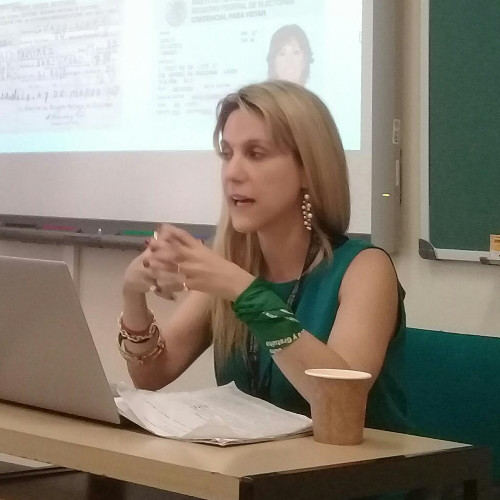
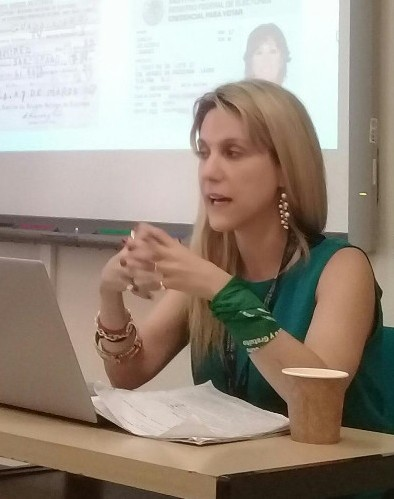
aborto legal

diff --git a/articulos/aborto_legal_seguro_y_gratuito_ed_6_2026.html b/articulos/aborto_legal_seguro_y_gratuito_ed_6_2026.html
@@ -1,0 +1,149 @@
+<!DOCTYPE html>
+<html lang="es">
+<head>
+  <meta charset="UTF-8">
+  <meta name="viewport" content="width=device-width, initial-scale=1.0">
+  <title>Gaceta Clara Zetkin | Aborto legal, seguro y gratuito: más de 30 años de lucha</title>
+  <link rel="preconnect" href="https://fonts.googleapis.com">
+  <link rel="preconnect" href="https://fonts.gstatic.com" crossorigin>
+  <link rel="icon" type="image/png" href="../assets/img/naranja.png">
+  <link href="https://fonts.googleapis.com/css2?family=Cormorant+Garamond:ital,wght@0,400;0,500;0,600;0,700;1,400;1,500&family=Inter:wght@300;400;500;600;700&display=swap" rel="stylesheet">
+  <link rel="stylesheet" href="https://cdnjs.cloudflare.com/ajax/libs/font-awesome/6.4.0/css/all.min.css">
+  <link rel="stylesheet" href="../assets/styles/articulos_gaceta.css">
+  <script data-goatcounter="https://naranjacyt.goatcounter.com/count" async src="//gc.zgo.at/count.js"></script>
+</head>
+<body>
+  <div class="newspaper-container">
+    <div class="top-nav">
+      <ul>
+        <li><a href="../index.html">INICIO</a></li>
+        <li><a href="../declaraciones.html">DECLARACIONES</a></li>
+        <li><a href="../noticias.html">PRENSA</a></li>
+        <li><a href="#">ARCHIVO</a></li>
+        <li><a href="#">EDICIONES ANTERIORES</a></li>
+      </ul>
+    </div>
+
+    <a href="../ediciones/GCZNum6.html" class="back-home"><i class="fas fa-arrow-left"></i> Volver al inicio</a>
+
+    <div class="gaceta-header">
+      <img src="../assets/img/logo_gaceta_banner_.png" alt="Logo Gaceta Clara Zetkin">
+      <div class="gaceta-subtitle">Una Revista de la NCYT</div>
+      <div class="issue-info">
+        <span>AÑO 2026 - NÚMERO 6</span>
+        <span>SEPTIEMBRE DE 2026</span>
+      </div>
+    </div>
+
+    <div class="main-content single-column">
+      <div class="featured-image">
+        <img src="../assets/img/notas_img/aborto_lega_banner_chiquito.png" alt="Aborto legal, seguro y gratuito: más de 30 años de lucha" onerror="this.src='https://placehold.co/900x500/1a2a2a/d4e6e6?text=Aborto+legal%2C+seguro+y+gratuito'">
+        <p class="image-caption">Marea Verde. PIC: Archivo</p>
+      </div>
+
+      <div class="tag">GÉNERO · DERECHOS · HISTORIA</div>
+      <h1 class="headline">ABORTO LEGAL, SEGURO Y GRATUITO: MÁS DE 30 AÑOS DE LUCHA</h1>
+      <div class="article-meta">
+        <span class="byline-author">Por Ro Sal & Alu S</span><br>
+        <span>Docentes UBA</span>
+        <span style="display: inline-block; margin-left: 1rem;">· 16 min de lectura · Septiembre de 2026</span>
+      </div>
+
+      <div class="article-text">
+        <p><span class="dropcap">L</span>a lucha por el derecho al aborto legal, seguro y gratuito en Argentina tiene décadas de historia. La misma estuvo atravesada por debates con los sectores conservadores antiderechos y otros sectores patronales, como también por debates dentro del movimiento de mujeres y diversidades, especialmente en cuanto a las estrategias que permitieran conquistar nuestro derecho a decidir y a no morir por aborto clandestino.</p>
+
+        <p>En Argentina, desde 1886 el aborto estaba penalizado en todos los casos (Fundación Huésped, s. f.). A partir de 1921 el artículo 86 del código penal. reguló el régimen de Aborto No Punible basándose en un sistema de causales. desde 1886 que permitía interrumpir legalmente un embarazo en 3 situaciones:</p>
+
+        <ul>
+          <li><strong>Riesgo para la vida:</strong> Se permitía si el embarazo ponía en riesgo la vida de la persona gestante y el peligro no podía evitarse por otros medios.</li>
+          <li><strong>Riesgo para la salud:</strong> Se permitía si el embarazo afectaba la salud física, mental o social de la persona gestante (interpretación ratificada por el fallo F.A.L. de la Corte Suprema en 2012).</li>
+          <li><strong>Violación o atentado al pudor:</strong> Se permitía si el embarazo era producto de una violación o de un atentado al pudor cometido sobre una mujer "idiota o demente".</li>
+        </ul>
+
+        <p>Esta última formulación fue modificada por el fallo FAL, luego de 9 décadas de controversias. El fallo de 2012 dictado por la Corte Suprema de Justicia dijo entonces que esa causal era aplicable a cualquier mujer, prohibió exigir autorizaciones judiciales para realizar la práctica médica, e indicó que los jueces no debían demorar ni obstaculizar el acceso al aborto cuando se ajustaba a las causales señaladas. En el año 2020, tras décadas de lucha y con el impulso de la Marea Verde, logramos la sanción de la Ley 27610 de acceso a la Interrupción Voluntaria del Embarazo, ¿cómo llegamos hasta allí?</p>
+
+        <h2>Las primeras manifestaciones públicas por la legalización del aborto</h2>
+
+        <p>Si bien ya en los años 70 hubo organizaciones feministas que hicieron hincapié en una sexualidad libre separada de la reproducción, en la maternidad como opción y no como destino de las feminidades, e incluso en la reivindicación del aborto legal (Tarducci, 2018), el contexto represivo de dictadura militar limitó su alcance..</p>
+
+        <p>En los años 80, al finalizar la última dictadura militar el reclamo por la legalización del aborto fue impulsado por un conjunto de mujeres que entre otras acciones, realizaron una junta de firmas en las puertas del Congreso de la Nación (Prensa Obrera, s. f., 01:16). También en los Encuentros Nacionales de Mujeres (hoy Encuentro Plurinacional de Mujeres y Diversidades) que se suceden de manera ininterrumpida desde 1986, se afianzó un rechazo a las alianzas con el clero a pesar de los intentos contrarios de parte de sectores maoístas y peronistas, que se expresó en el crecimiento de las comisiones que debatieron las estrategias para impulsar la legalización del aborto. En este marco, en el año 2005 se conformó la Campaña Nacional por el Derecho al Aborto, (Biasi, 2020).</p>
+
+        <p>A estos antecedentes se sumó el Ni una menos, movimiento que a partir de 2015 puso en la agenda política las violencias por razones de género. Es decir que la conquista de la legalización del aborto fue precedida de una larga lucha, y años de fuertes movilizaciones del movimiento de mujeres y diversidades (Bellucci, s. f., 01:04).</p>
+
+        <h2>Debates en el movimiento de lucha por el aborto legal</h2>
+
+        <p>Por supuesto que este camino de luchas y movilizaciones estuvo atravesado por debates. Recordemos que al conformarse la Campaña Nacional por el derecho al aborto, el planteo principal era la despenalización a partir de la modificación del artículo 86 del Código Penal. Algunas organizaciones, como el Plenario de Trabajadoras, decidieron no participar porque consideraban que el objetivo central debía ser la legalización.</p>
+
+        <p>Finalizando el gobierno de Néstor Kirchner, comenzó a reclamarse la legalización y se presentó un proyecto de ley que fue cajoneado en el Congreso sistemáticamente por el kirchnerismo, hasta que el gobierno de Mauricio Macri habilitó el tratamiento. El macrismo no se caracterizaba por levantar la bandera del aborto, sino que pretendía darle un golpe al peronismo, aliado del papa Francisco, al mismo tiempo que lo utilizaba como estrategia para desviar los debates y cuestionamientos sobre una gestión cuyos indicadores se deterioraban aceleradamente..</p>
+
+        <p>Los gobiernos de Nestor Kirchner, Alberto Fernández y de Cristina Fernández de Kirchner (CFK), por su parte, tuvieron históricamente una alianza con la Iglesia Católica y con lo más reaccionario de las evangélicas, como el grupo Aciera. Casos emblemáticos de la lucha por el aborto legal ocurrieron en provincias gobernadas por el peronismo con fuertes lazos con la Iglesia católica, como el caso de Belén en Tucuman, o el de Romina Tejerina en Jujuy.</p>
+
+        <p>Otra cuestión que es importante mencionar es el rol de las burocracias sindicales en la lucha por el aborto, burocracias dirigidas por distintos sectores del peronismo. Las direcciones de la CGT (Confederación General del Trabajo) y de la CTA (Central de Trabajadores de la Argentina) se alinearon de manera orgánica con el Partido Justicialista (PJ) y con el clero. Acá surge una paradoja, porque a pesar del avance de las demandas de las trabajadoras, las representantes sindicales femeninas de ambas centrales accedieron a firmar pronunciamientos conjuntos en los que se excluyó deliberadamente el reclamo por el aborto legal. La burocracia sindical ha entregado históricamente los derechos de las mujeres (y del conjunto de lxs trabajadorxs) para garantizar la "paz social" que necesitan los gobiernos de turno para aplicar políticas de ajuste (Biasi, 2020).</p>
+
+        <h2>Hitos previos a la Marea Verde</h2>
+
+        <p>En esta lucha, se destacan hechos que marcaron cambios en las formas de abordar las interrupciones de embarazo e incentivaron la movilización y organización de las mujeres y diversidades:</p>
+
+        <p>La formación de la Campaña Nacional por el Derecho al Aborto Legal, Seguro y Gratuito en el año 2003, a partir de los Encuentros Nacionales de Mujeres y en el marco del Taller de Estrategias para el Derecho al Aborto. Su lanzamiento público fue el 28 de mayo de 2005 (Día Internacional de Acción por la Salud de las Mujeres), y contaba entonces con 70 organizaciones de todo el país. El pañuelo verde fue aprobado como emblema de la Campaña. La adopción de un pañuelo como símbolo, según integrantes fundadoras de la Campaña, buscó recuperar la tradición de las Madres y Abuelas de Plaza de Mayo, quienes se identificaron con pañuelos blancos (Felitti, 2011; Felitti y Ramírez Morales, 2020).</p>
+
+        <p>La utilización del aborto medicamentoso: En 2009, colectivos de lesbianas y feministas lanzaron la línea telefónica "Aborto: más información, menos riesgos". En 2009 se difundió el material "Todo lo que querés saber sobre cómo hacerse un aborto con pastillas", creado y publicado por la colectiva Lesbianas y Feministas por la Descriminalización del Aborto. La publicación marcó un hito histórico al difundir de manera pública, científica y accesible la información de la Organización Mundial de la Salud sobre el uso seguro del misoprostol.</p>
+
+        <p>También la organización de las Socorristas en Red y otras organizaciones como la Red de Profesionales de la Salud por el Derecho a Decidir entre otras, fueron colectivos importantes en la lucha por el aborto en Argentina. Establecieron lazos comunitarios, de solidaridad y de organización asesorando y acompañando a las personas gestantes que requerían su asistencia (Rosso, 2025).</p>
+
+        <p>El mencionado fallo FAL, dictado el 13 de marzo de 2012 por la Corte Suprema de Justicia de la Nación. El Caso Belén: En 2014, Belén llegó al Hospital Avellaneda de Tucumán con fuertes dolores abdominales. Había tenido un aborto espontáneo, pero el personal médico violó el secreto profesional, la denunció y la acusó de provocárselo. Lo que siguió fue un calvario: maltrato, violencia institucional, detención preventiva y una causa armada sin pruebas. Incluso inventaron un delito inexistente: "aborto seguido de homicidio". Del hospital la llevaron directo al penal. En 2016, tras 2 años presa, la condenaron a 8 años por "homicidio agravado", sin evidencias científicas. Belén estuvo 29 meses en prisión, casi 3 años presa. El 27 de marzo de 2017 finalmente fue absuelta. "Este caso es paradigmático, no solo por las razones que la llevaron a ser juzgada y condenada de manera exprés en una provincia como Tucumán que en 2018 se declaró "Provida" sino, y por sobre todas las cosas, porque su liberación fue un ejemplo de lucha del movimiento de mujeres y diversidades de nuestro país" (Carboni, 2021).</p>
+
+        <p>Protocolo ILE: Luego del fallo FAL, en 2015 se redactó el Protocolo para la Atención Integral de las personas con derecho a la interrupción legal del embarazo, para el acceso al aborto encuadrado en las causales legales y evitar la judicialización. Sin embargo, muchas provincias se negaron a adherir o implementarlo, y el gobierno de CFK de ese entonces no lo oficializó mediante una resolución ministerial, dejándolo como una simple guía técnica (Zavaleta, 2019).</p>
+
+        <h2>Del 2018 al año verde</h2>
+
+        <p>En marzo de 2018, la Campaña Nacional por el Derecho al Aborto Legal, Seguro y Gratuito presentó en el Congreso de la Nación, por séptima vez, un proyecto de ley de Interrupción Voluntaria del Embarazo (IVE). Como vimos, hacía más de 30 años que se venía planteando la despenalización y la legalización del aborto por parte de las organizaciones de mujeres, diversidades y de la izquierda. Pero en esta oportunidad, por primera vez, un proyecto de ley llegó a tratarse en la Cámara de Diputados y en la Cámara de Senadores de la Nación. Con anterioridad, los proyectos presentados perdían estado parlamentario porque los bloques patronales se negaban a tratarlos.</p>
+
+        <p>En el marco del tratamiento legislativo se realizaron más de 700 exposiciones en reuniones informativas en el Congreso, que fueron transmitidas y reflejadas por distintos medios, tanto nacionales como extranjeros (Krause et al., 2022; Telam, 14/06/2018). Tanto la presentación como los debates parlamentarios, fueron acompañados por un creciente proceso de movilización que incluyó concentraciones frente al Congreso y en otros lugares del país, actos, recitales, "pañuelazos", "twitazos", clases públicas, asambleas, performances político-artísticas, ceses de actividad convocados por diversos sindicatos y pronunciamientos masivos. Se destacó dentro de estas manifestaciones el pañuelazo del 19 de febrero que expresó la incorporación masiva de la juventud al reclamo del aborto legal, seguro y gratuito (Prensa Obrera, s. f., 04:13).</p>
+
+        <p>En 2018 surgió así la Marea Verde, movimiento nombrado de esta manera por el uso del pañuelo verde con el lema "Educación sexual para decidir, Anticonceptivos para no abortar. Aborto legal para no morir" por parte de quienes nos manifestábamos a favor del aborto.</p>
+
+        <p>El día 13 de junio de 2018 con alrededor de un millón de personas que permanecieron en una vigilia frente al Congreso de la Nación para apoyar la aprobación de la IVE, el proyecto de ley obtuvo media sanción en la Cámara de Diputados, con 129 votos a favor, 125 en contra y 1 abstención (Telam, 2020).</p>
+
+        <p>Luego, el 8 de agosto, en ocasión del tratamiento del proyecto en el Senado, se realizaron vigilias en cerca de 30 ciudades del país y un pañuelazo internacional que incluyó acciones en Perú, Chile, Brasil, Ecuador, México, España, Francia y Gran Bretaña. Pero en esta ocasión, con 38 votos en contra y 31 a favor, el proyecto de ley perdió la votación (Bianciotti, 2021). Pese a este resultado, la movilización masiva a favor del proyecto implicó una suerte de despenalización social del aborto, en términos de la opinión pública (Tarducci, 2018; Zurbriggen et al., 2018; Karstanje et al., 2019), y por lo tanto fue un hito que apuntaló los caminos para la posterior sanción de la ley.</p>
+
+        <h2>La marea verde conquista el aborto legal, seguro y gratuito</h2>
+
+        <p>La fuerza de la marea verde no dejó de movilizarse, atravesó de lleno la campaña electoral 2019 y permaneció como una de las principales reivindicaciones populares frente al nuevo gobierno de Alberto Fernandez, quien había prometido presentar un proyecto propio sobre el aborto. La pandemia fue utilizada como excusa para no avanzar en la legalización dando lugar al tratamiento del proyecto presentado por la Campaña Nacional, aunque a fines de 2019 se publicó el Protocolo para la atención integral de las personas con derecho a la interrupción legal del embarazo (ILE) que ofrecía instrucciones claras para los equipos de salud según el artículo 86 del Código Penal y el Fallo F.A.L. En noviembre de 2020 ante la presión del movimiento de lucha, el Poder Ejecutivo envió el proyecto de ley de IVE al Congreso. Para disminuir las resistencias de los sectores indecisos o conservadores, se envió en simultáneo el Plan de los 1000 Días. El 11 de diciembre de 2020 la Cámara de Diputados le otorgó media sanción al proyecto tras una sesión de 20 horas, con 131 votos afirmativos, 117 negativos y 6 abstenciones. El 30 de diciembre de 2020 en una sesión que se extendió hasta la madrugada, el Senado de la Nación convirtió el proyecto en la Ley 27.610 con 38 votos a favor, 29 en contra y 1 abstención. El 30 de diciembre de 2020 nuestras compañeras Juliana Cabrera y Vanina Biasi escribían:</p>
+
+        <p><strong> El triunfo que representa la legalización del aborto voluntario tiene un alcance histórico para nuestro país y para el mundo.</strong> Más aún cuando este triunfo contra el clero reaccionario es arrancado en el país del Papa. La proeza de la marea verde se impuso al Estado capitalista que imparte represiones y tabúes sobre los cuerpos de las mujeres trabajadoras para dominar las vidas del conjunto de la clase obrera. El desafiante movimiento de mujeres enfrentó con determinación las presiones y los principios reaccionarios de las iglesias, incluso en sus propios colegios y regiones del país que creían absolutamente dominados. (2020).</p>
+
+        <p><strong>¡Viva nuestra lucha! ¡Ni un paso atrás!</strong></p>
+
+        <hr>
+        <h3>Bibliografía</h3>
+        <ul class="ul-notas">
+          <li>Argentina. Congreso de la Nación (2021, 15 de enero). Acceso a la Interrupción Voluntaria del Embarazo. Ley 27610. Boletín Oficial de la República Argentina.</li>
+          <li>Bellucci, M. (s. f.). Mabel Bellucci: Luchas de movimientos de desobediencia sexual por la conquista del aborto voluntario [Video]. YouTube. <a href="https://youtu.be/IGmFJi5MF30?si=eFKOylmDKnbBXenK" target="_blank">https://youtu.be/IGmFJi5MF30?si=eFKOylmDKnbBXenK</a></li>
+          <li>Bianciotti, M. C. (2021). Somos las nietas de las brujas que nunca pudieron quemar: una reflexión antropológica de la Marea Verde en Argentina. <em>Polémicas Feministas</em>, (5), 1–20.</li>
+          <li>Biasi, V. (10 de marzo de 2020). La Ola Verde: la lucha por el aborto legal. En <em>Defensa del Marxismo</em>. <a href="https://revistaedm.com.ar/nota/la-ola-verde-la-lucha-por-el-aborto-legal/" target="_blank">https://revistaedm.com.ar/nota/la-ola-verde-la-lucha-por-el-aborto-legal/</a></li>
+          <li>Cabrera, J. y Biasi, V. (30 de diciembre de 2020). Histórico triunfo: el aborto es legal. <em>Prensa Obrera</em>. <a href="https://prensaobrera.com/mujer/historico-triunfo-el-aborto-es-legal" target="_blank">https://prensaobrera.com/mujer/historico-triunfo-el-aborto-es-legal</a></li>
+          <li>Carboni, L. (20 de agosto de 2021). Aniversario de una lucha: Belén libre desde hace 5 años. <em>Prensa Obrera</em></li>
+          <li>Felitti, K. (2011). Estrategias de comunicación del activismo católico conservador frente al aborto y el matrimonio igualitario en la Argentina. <em>Sociedad y religión</em>, 21(34-35), 0-0.</li>
+          <li>Felitti, K., y Ramírez, M. D. R. (2020). Pañuelos verdes por el aborto legal: Historia, significados y circulaciones en Argentina y México. <em>Encartes</em>, 3 (5), 110-145.</li>
+          <li>Fundación Huésped. (s. f.). Historia del aborto en Argentina. <a href="https://archivo.huesped.org.ar/informacion/derechos-sexuales-y-reproductivos/tus-derechos/interrupcion-voluntaria-del-embarazo/historia-del-aborto-en-argentina/" target="_blank">https://archivo.huesped.org.ar/informacion/derechos-sexuales-y-reproductivos/tus-derechos/interrupcion-voluntaria-del-embarazo/historia-del-aborto-en-argentina/</a></li>
+          <li>Karstanje, M., Ferrari, N., Verón, Z., Gherardi, N., Romero, M., y Ramos, S. (2019). <em>De la clandestinidad al Congreso: un análisis del debate legislativo sobre la Ley de Interrupción Voluntaria del Embarazo en Argentina</em>.</li>
+          <li>Krause M, Ramón Michel A, Molina S, Keefe-Oates B, Ramos S, Romero M. (2022). <em>Proyecto mirar: el aborto en la prensa argentina 2018, 2020 y 2021</em>. CEDES; Ibis Reproductive Health. Disponible en: <a href="https://repositorio.cedes.org/handle/123456789/4697" target="_blank">https://repositorio.cedes.org/handle/123456789/4697</a>.</li>
+          <li>Prensa Obrera. (s. f.). Entrevista a Alicia Schejter // 36 Años de lucha por el aborto legal [Video]. YouTube. <a href="https://www.youtube.com/watch?v=Eyy4RkDWbxc" target="_blank">https://www.youtube.com/watch?v=Eyy4RkDWbxc</a></li>
+          <li>Rosso, L. (6 de junio de 2025). La historia de una pastilla que cambió miles de vidas. <em>Página|12</em>. <a href="https://www.pagina12.com.ar/831518-la-historia-de-una-pastilla-que-cambio-miles-de-vidas/" target="_blank">https://www.pagina12.com.ar/831518-la-historia-de-una-pastilla-que-cambio-miles-de-vidas/</a></li>
+          <li>Zavaleta, R. (19 de diciembre de 2019). Aborto no punible: la marea verde arrancó el protocolo. <em>Prensa Obrera</em>. <a href="https://prensaobrera.com/mujer/aborto-no-punible-la-marea-verde-arranco-el-protocolo" target="_blank">https://prensaobrera.com/mujer/aborto-no-punible-la-marea-verde-arranco-el-protocolo</a></li>
+          <li>Tarducci, M. (2018). Escenas claves de la lucha por el derecho al aborto en Argentina. <em>Salud colectiva</em>, 425 – 432.</li>
+          <li>Zurbriggen, R.; Vacarezza, N.; Alonso, G.; Grosso, B. y Trpin, M. (2018). <em>El aborto con medicamentos en el segundo trimestre de embarazo. Una investigación feminista socorrista</em>. La Parte Maldita.</li>
+          <li>¿Qué dicen los medios internacionales sobre la media sanción? (14 de junio de 2018). Telam. ¿Qué dicen los medios internacionales sobre la media sanción? (telam.com.ar)</li>
+        </ul>
+
+      </div>
+    </div>
+
+    <div class="gaceta-footer">
+      <p><i class="far fa-newspaper"></i> GACETA CLARA ZETKIN - Publicación de Naranja Ciencia y Técnica</p>
+      <p style="margin-top: 0.5rem;">Contacto: naranjacienciaytecnica@gmail.com | Seguinos en <i class="fab fa-instagram"></i> @naranja.cyt</p>
+      <p style="margin-top: 0.5rem; font-size: 0.7rem;">© 2026 - Todos los derechos reservados | Hecho con <i class="fas fa-heart" style="color: #c41e3a;"></i> para difundir libremente.</p>
+    </div>
+  </div>
+</body>
+</html>

diff --git a/articulos/mujeres_al_poder_ed_6_2026.html b/articulos/mujeres_al_poder_ed_6_2026.html
@@ -70,6 +70,10 @@
 
         <p>Para abordar la complejidad de este asunto conviene hacer un doble clic en el debate por la legalización de la interrupción voluntaria del embarazo (IVE), una demanda histórica de la agenda feminista, que dio lugar a la “marea verde”, ese gigantesco proceso de movilización popular que incluso trascendió las fronteras nacionales. El recorrido parlamentario de esta ley permite mirar en conjunto el tratamiento fallido de 2018, la aprobación de 2020 y, entre ambos, la primera aplicación de la Ley de Paridad de Género.</p>
         
+        <div class="float-right-img">
+          <img src="../assets/img/notas_img/ariadna_gallo.jpeg" alt="Monocultivo de pinos Arauco" onerror="this.src='https://placehold.co/300x200/2c3e50/d4e6e6?text=Plantación+de+pinos'">
+        </div>
+
         <p>En 2018, el proyecto de legalización del aborto obtuvo media sanción en Diputados, pero fue rechazado en el Senado. En esa ocasión, solo la mitad de las legisladoras mujeres acompañó la iniciativa. La división atravesó los bloques y puso en primer plano la cuestión de los compromisos programáticos. Entre los pocos bloques que actuaron de modo conjunto se encuentra el FIT, cuyos representantes votaron unánimemente a favor, sin diferencias entre hombres y mujeres, en consonancia con una demanda que sus partidos ya sostenían como parte de su programa político. Esa defensa inscribía la legalización del aborto en un cuestionamiento del statu quo y del rol tradicional asignado a las mujeres. En contraste, los principales partidos patronales llegaron a la discusión sin una posición programática común sobre esta demanda y dejaron el voto librado a las convicciones individuales de sus integrantes<sup>4</sup>.</p>
         
         <p>En 2020, con un Congreso más paritario y un clima político más favorable, el aborto fue ley. Paradójicamente, el Senado, la cámara que tenía la llave decisiva de la votación, contaba con 1 mujer menos que en 2018: 28 frente a 30. Así, quedó en evidencia que sumar mujeres, por sí solo, no alcanza para explicar el cambio.</p>
@@ -85,6 +89,10 @@
         <p>Y ahí nos encontramos con la contradicción de las otrora sororas, devenidas aliadas del gobierno de Milei. Como ejemplo ilustrativo, Silvia Lospennato pasó de abanderada del pañuelo verde en 2018 a uno de los principales cráneos de la Ley Bases en 2024. Una ley tan abarcativa como nefasta que, entre otros retrocesos, eliminó la doble indemnización para trabajadoras de casas particulares y quitó protección frente a discriminación de género en el ámbito laboral<sup>7</sup>.</p>
 
         <p>Así vemos que aquella marea verde, con su desborde y contundencia, había dejado circunstancialmente en segundo plano intereses de clase y diferencias políticas que seguían ahí. Cuando la marea se aquietó, pudo verse a mujeres que habían batallado por el empoderamiento femenino en abstracto y que ahora no tenían reparos en acompañar -o, incluso, diseñar de puño y letra- políticas de desempoderamiento de las mujeres trabajadoras.</p>
+
+        <div class="float-left-img">
+          <img src="../assets/img/notas_img/28s_2026.jpeg" alt="Monocultivo de pinos Arauco" onerror="this.src='https://placehold.co/300x200/2c3e50/d4e6e6?text=Plantación+de+pinos'">
+        </div>
 
         <p>En contraste, <strong>para nosotras, las socialistas, la agenda feminista disputa no solo derechos individuales, sino que interpela el trabajo, la violencia institucional, la reproducción social, la acumulación capitalista. Para nosotras, la desigualdad de género es constitutiva de la desigualdad estructural de esta sociedad.</strong> Por eso, entendemos que la legislación progresiva de género forma parte de un pliego de reivindicaciones más amplio, inseparable de una estrategia de transformación social.</p>
 

diff --git a/ediciones/GCZNum6.html b/ediciones/GCZNum6.html
@@ -137,7 +137,7 @@
             <div class="card-tag">RESEÑA</div>
             <h3 class="card-title"><a href="../articulos/resenia_de_la_mala_magia_al_aquelarre_ed_2026.html">De la mala magia al aquelarre</a></h3>
             <div class="card-excerpt">
-              En cada poesía y en cada cuento, Patricia nos trae las voces de cada hija que duele, y retoma la palabra como hacemos en cada ronda, en cada asamblea. Porque sabemos que unidas podemos ahuyentar la mala magia, prender la hoguera y quemar el dolor. Este hermoso libro nos recuerda heridas que no cierran, pero también nos recuerda que sólo articulando nuestra voz seremos escuchadas.
+              En cada poesía y en cada cuento, Patricia Toni nos trae las voces de cada hija que duele, y retoma la palabra como hacemos en cada ronda, en cada asamblea. Porque sabemos que unidas podemos ahuyentar la mala magia, prender la hoguera y quemar el dolor. Este hermoso libro nos recuerda heridas que no cierran, pero también nos recuerda que sólo articulando nuestra voz seremos escuchadas. <strong>Porque sabemos que unidas podemos ahuyentar la mala magia, prender la hoguera y quemar el dolor. Este hermoso libro nos recuerda heridas que no cierran, pero también nos recuerda que sólo articulando nuestra voz seremos escuchadas.</strong>
             </div>
             <div class="card-meta">
               <span><i class="far fa-user"></i> Un recorrido de AJ. Velez Rueda por el libro de Patricia Toni</span>
@@ -151,14 +151,15 @@
           <img class="card-image" src="../assets/img/notas_img/aborto_lega_banner_chic.png" alt="Asamblea vecinal en Chapadmalal" onerror="this.src='https://placehold.co/400x250/2c5a2c/d4e6d4?text=Sistema+Penal'">
           <div class="card-content">
             <div class="card-tag">NOTA</div>
-            <h3 class="card-title"><a href="../articulos/carta_abierta_de_una_becaria.html">Aborto Legal</a></h3>
+            <h3 class="card-title"><a href="../articulos/aborto_legal_seguro_y_gratuito_ed_6_2026.html">ABORTO LEGAL, SEGURO Y GRATUITO: más de 30 años de lucha</a></h3>
             <div class="card-excerpt">
-                Lorem ipsum dolor sit amet consectetur adipisicing elit. Voluptatibus, qui. Quo doloremque hic facere exercitationem! Aut error repudiandae officiis voluptatibus dicta nulla distinctio voluptates quaerat odit est, recusandae, necessitatibus debitis.
+                El artículo recorre más de tres décadas de lucha por el aborto legal en Argentina, desde la penalización de 1886 hasta la sanción de la Ley 27.610 en 2020. Repasa los debates internos del movimiento feminista, la conformación de la Campaña Nacional en 2005, el fallo FAL de 2012, el caso Belén y el protocolo ILE de 2015.
+                El texto destaca la irrupción de la Marea Verde en 2018, que tras la media sanción en Diputados y el rechazo en Senado impulsó la despenalización social del aborto. Finalmente, <strong>la presión popular logró la sanción de la ley en diciembre de 2020, una victoria histórica contra el clero y el Estado capitalista.</strong>
             </div>
             <div class="card-meta">
-              <span><i class="far fa-user"></i> Por Débora Décima</span>
+              <span><i class="far fa-user"></i> Por Ro Sal & Alu S</span>
               <span><i class="far fa-calendar-alt"></i> 9 de Agosto de 2026</span>
-              <a href="../articulos/carta_abierta_de_una_becaria.html" class="read-more">VER NOTA COMPLETA <i class="fas fa-arrow-right"></i></a>
+              <a href="../articulos/aborto_legal_seguro_y_gratuito_ed_6_2026.html" class="read-more">VER NOTA COMPLETA <i class="fas fa-arrow-right"></i></a>
             </div>
           </div>
         </div>
